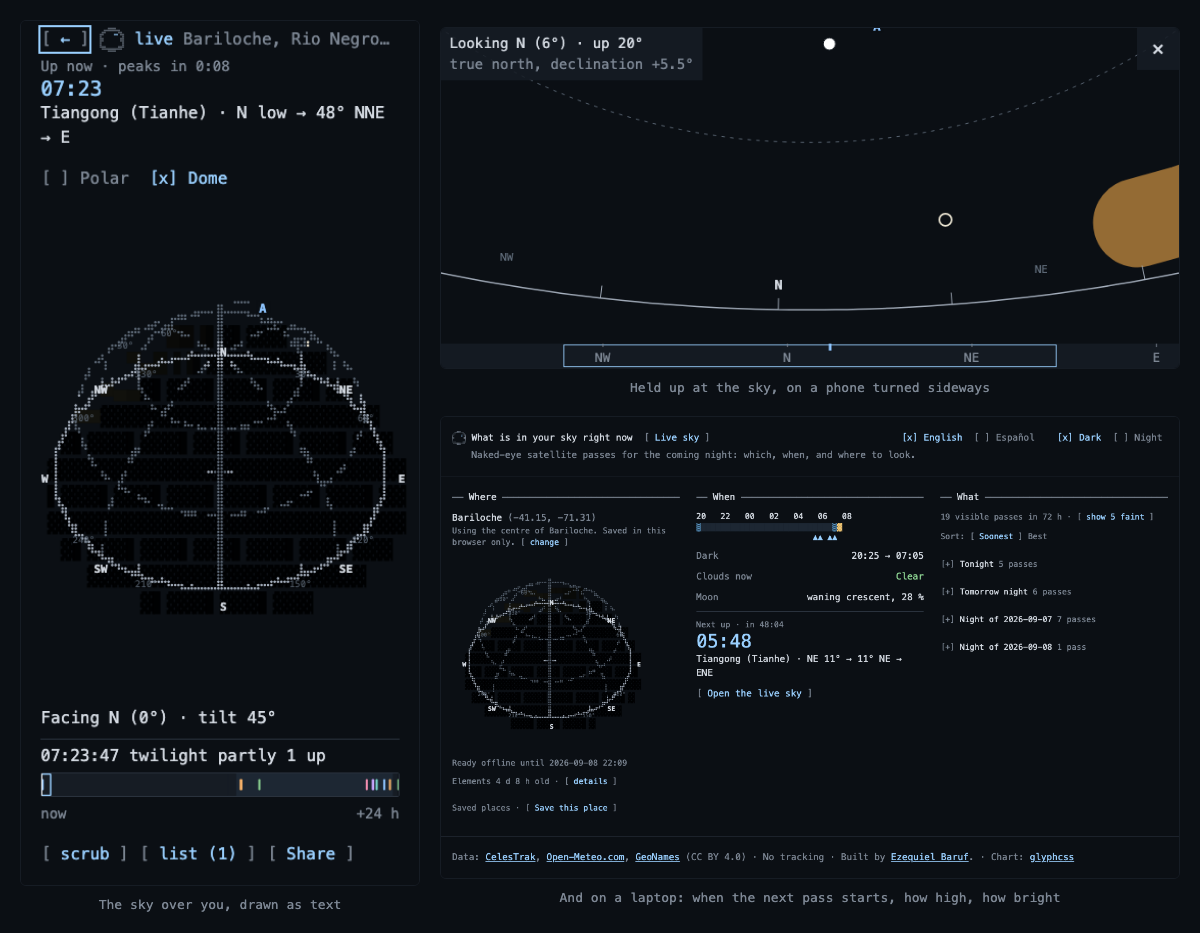
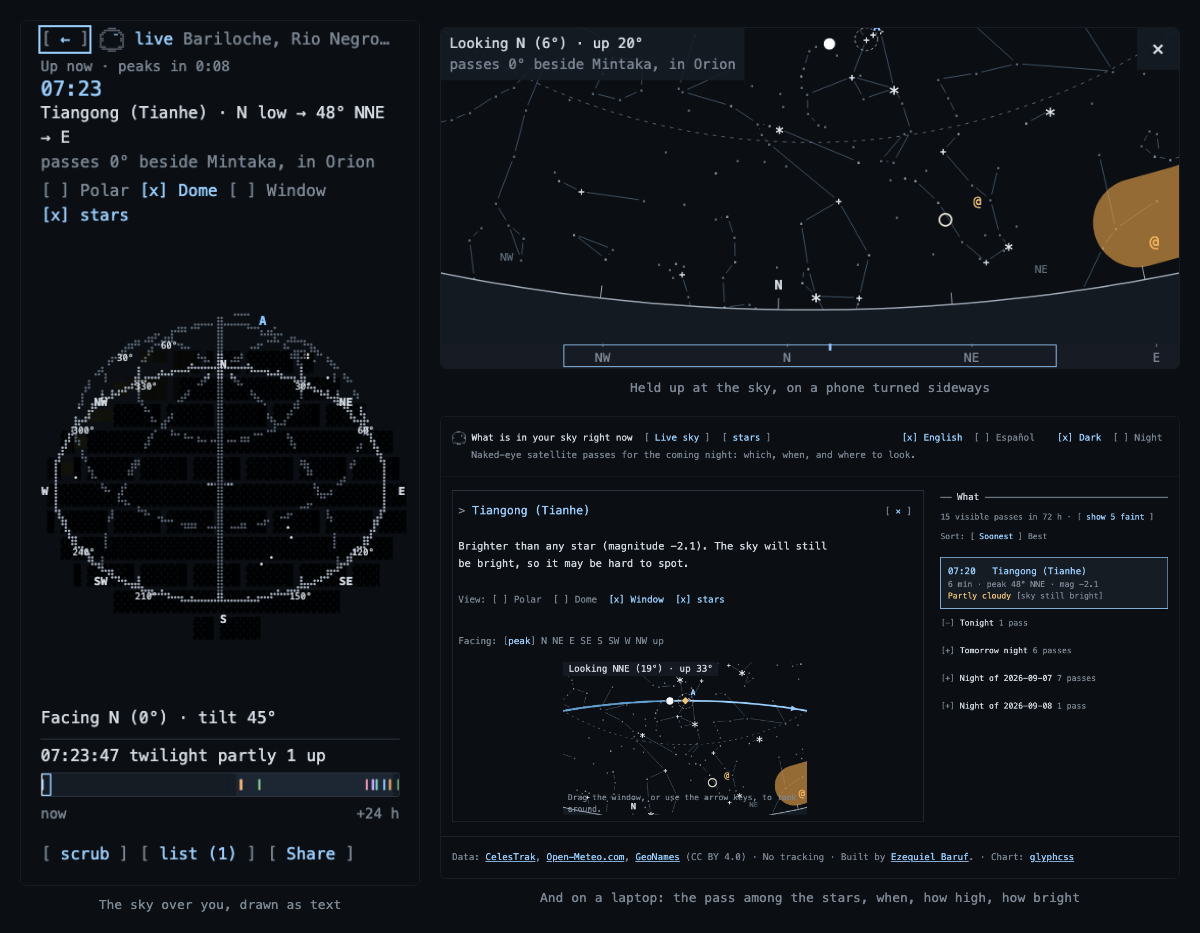
R128: the README's screens show one sky — the laptop tile is the pass detail's window, the hero re-drawn; the reading order to §16.23

diff --git a/tests/docs/public.test.ts b/tests/docs/public.test.ts
@@ -280,8 +280,9 @@ describe('the stars, named where a reader looks (SPEC §9 Phase 2l, R118)', () =
     expect(prologue).toMatch(/held up to the sky/);
   });
 
-  it('the reading order carries the delivery sections to v2.4 and links the stars spike', () => {
-    expect(built).toMatch(/§16\.9\s+to\s+§16\.22,\s+v1\.2\s+through\s+v2\.4/);
+  it('the reading order carries the delivery sections to v2.5 and links the stars spike', () => {
+    // R128: §16.23 is v2.5's.
+    expect(built).toMatch(/§16\.9\s+to\s+§16\.23,\s+v1\.2\s+through\s+v2\.5/);
     const relative = all(LINK, built).map((link) => normalize(join('docs', (link[2] ?? '').split('#')[0] ?? '')));
     expect(relative).toContain('docs/stars/FINDINGS.md');
   });

diff --git a/scripts/readme-hero.ts b/scripts/readme-hero.ts
@@ -87,8 +87,11 @@ export const SOURCES = [
     slot: 'stack',
   },
   {
-    file: 'v1-home-1280-dark-en.png',
-    caption: 'And on a laptop: when the next pass starts, how high, how bright',
+    // R128 (FR-SKY-9): v2.5 draws one sky in every view, so the laptop tile is the pass detail on the
+    // window — the pass among the stars it crosses, with its time, peak and brightness in the card beside
+    // it — where it was the home page; the same size, so the layout does not move.
+    file: 'v1-guide-window-1280-dark-en.png',
+    caption: 'And on a laptop: the pass among the stars, when, how high, how bright',
     w: 1280,
     h: 800,
     slot: 'stack',

diff --git a/README.md b/README.md
@@ -2,12 +2,12 @@
 
 Type a location and see which of about thirty bright satellites cross the sky over it
 tonight: when each one appears, where to look for it, how long it stays and how bright it
-gets. On the stars page it draws the stars, figures and planets in front of you, turned by
-hand or held up to the sky. It runs in the browser, with no backend and no account.
+gets, drawn over the stars, figures and planets it crosses; the stars page has them alone,
+turned by hand or held up to the sky. It runs in the browser, with no backend and no account.
 
 **Live:** <https://inyoursky.app>
 
-![Three screens: a phone showing the sky over you drawn as braille text with the passes and the time stripe under it, a phone turned sideways held up at the sky, and a laptop showing when the next pass starts, how high it climbs and how bright it gets](docs/readme/hero.png)
+![Three screens: a phone showing the sky over you drawn as braille text with the passes and the time stripe under it, a phone turned sideways held up at the sky with the stars and a pass in it, and a laptop showing a pass among the stars it crosses, with when it starts, how high it climbs and how bright it gets](docs/readme/hero.png)
 
 It was built spec-driven, and mostly not by hand. Every line traces to a numbered
 requirement in `SPEC.md`, and each slice in `TASKS.md` was one Claude Code session. The

diff --git a/docs/HOW-THIS-WAS-BUILT.md b/docs/HOW-THIS-WAS-BUILT.md
@@ -37,8 +37,8 @@ session that disagrees has to argue with a written reason rather than with a sil
 The section to read is [§16, Delivery](../PLAN.md#16-delivery-of-the-v1-and-v11-tasks-v1-11-v11-9).
 It opens with the v1 contract — lanes (which files a task may touch), waves (which tasks
 can run at once), what an entry must carry, the driver, the merge policy and the model
-policy — and then carries one delivery section per phase, §16.9 to §16.22, v1.2 through
-v2.4, each with its wave table and the block of decision numbers its tasks may spend.
+policy — and then carries one delivery section per phase, §16.9 to §16.23, v1.2 through
+v2.5, each with its wave table and the block of decision numbers its tasks may spend.
 
 ## 3. [TASKS.md](../TASKS.md) — the ordered slices
 
